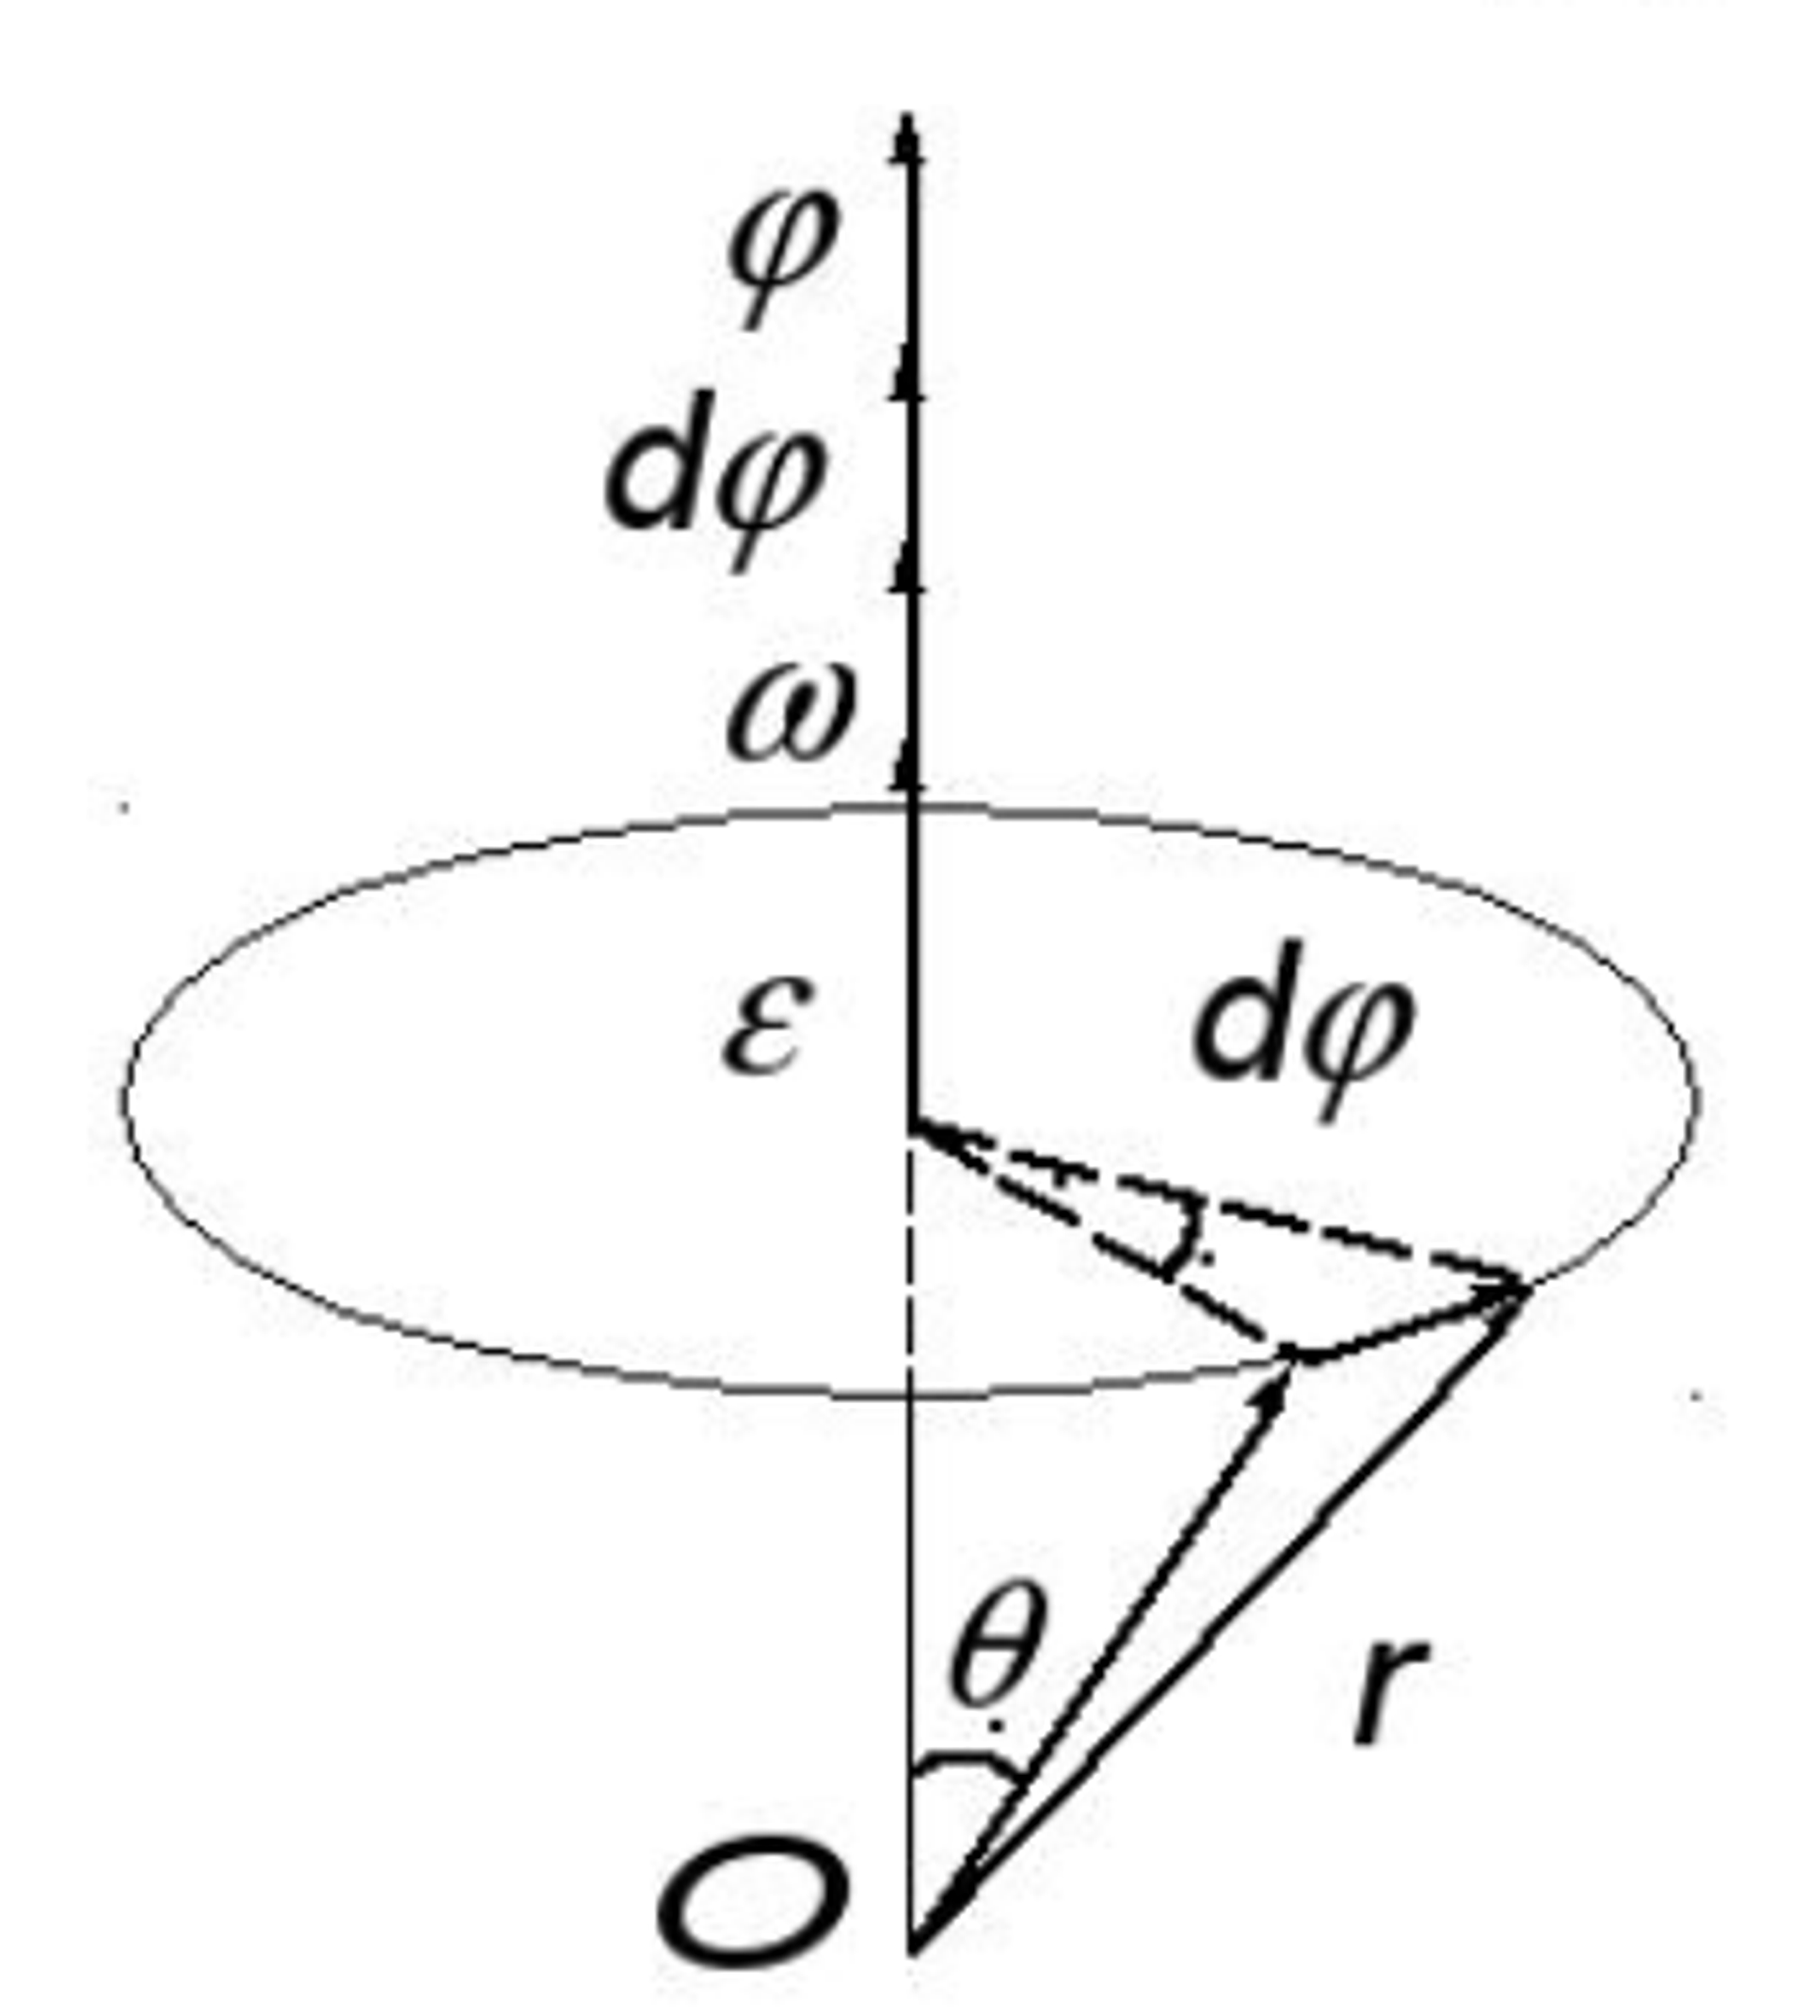
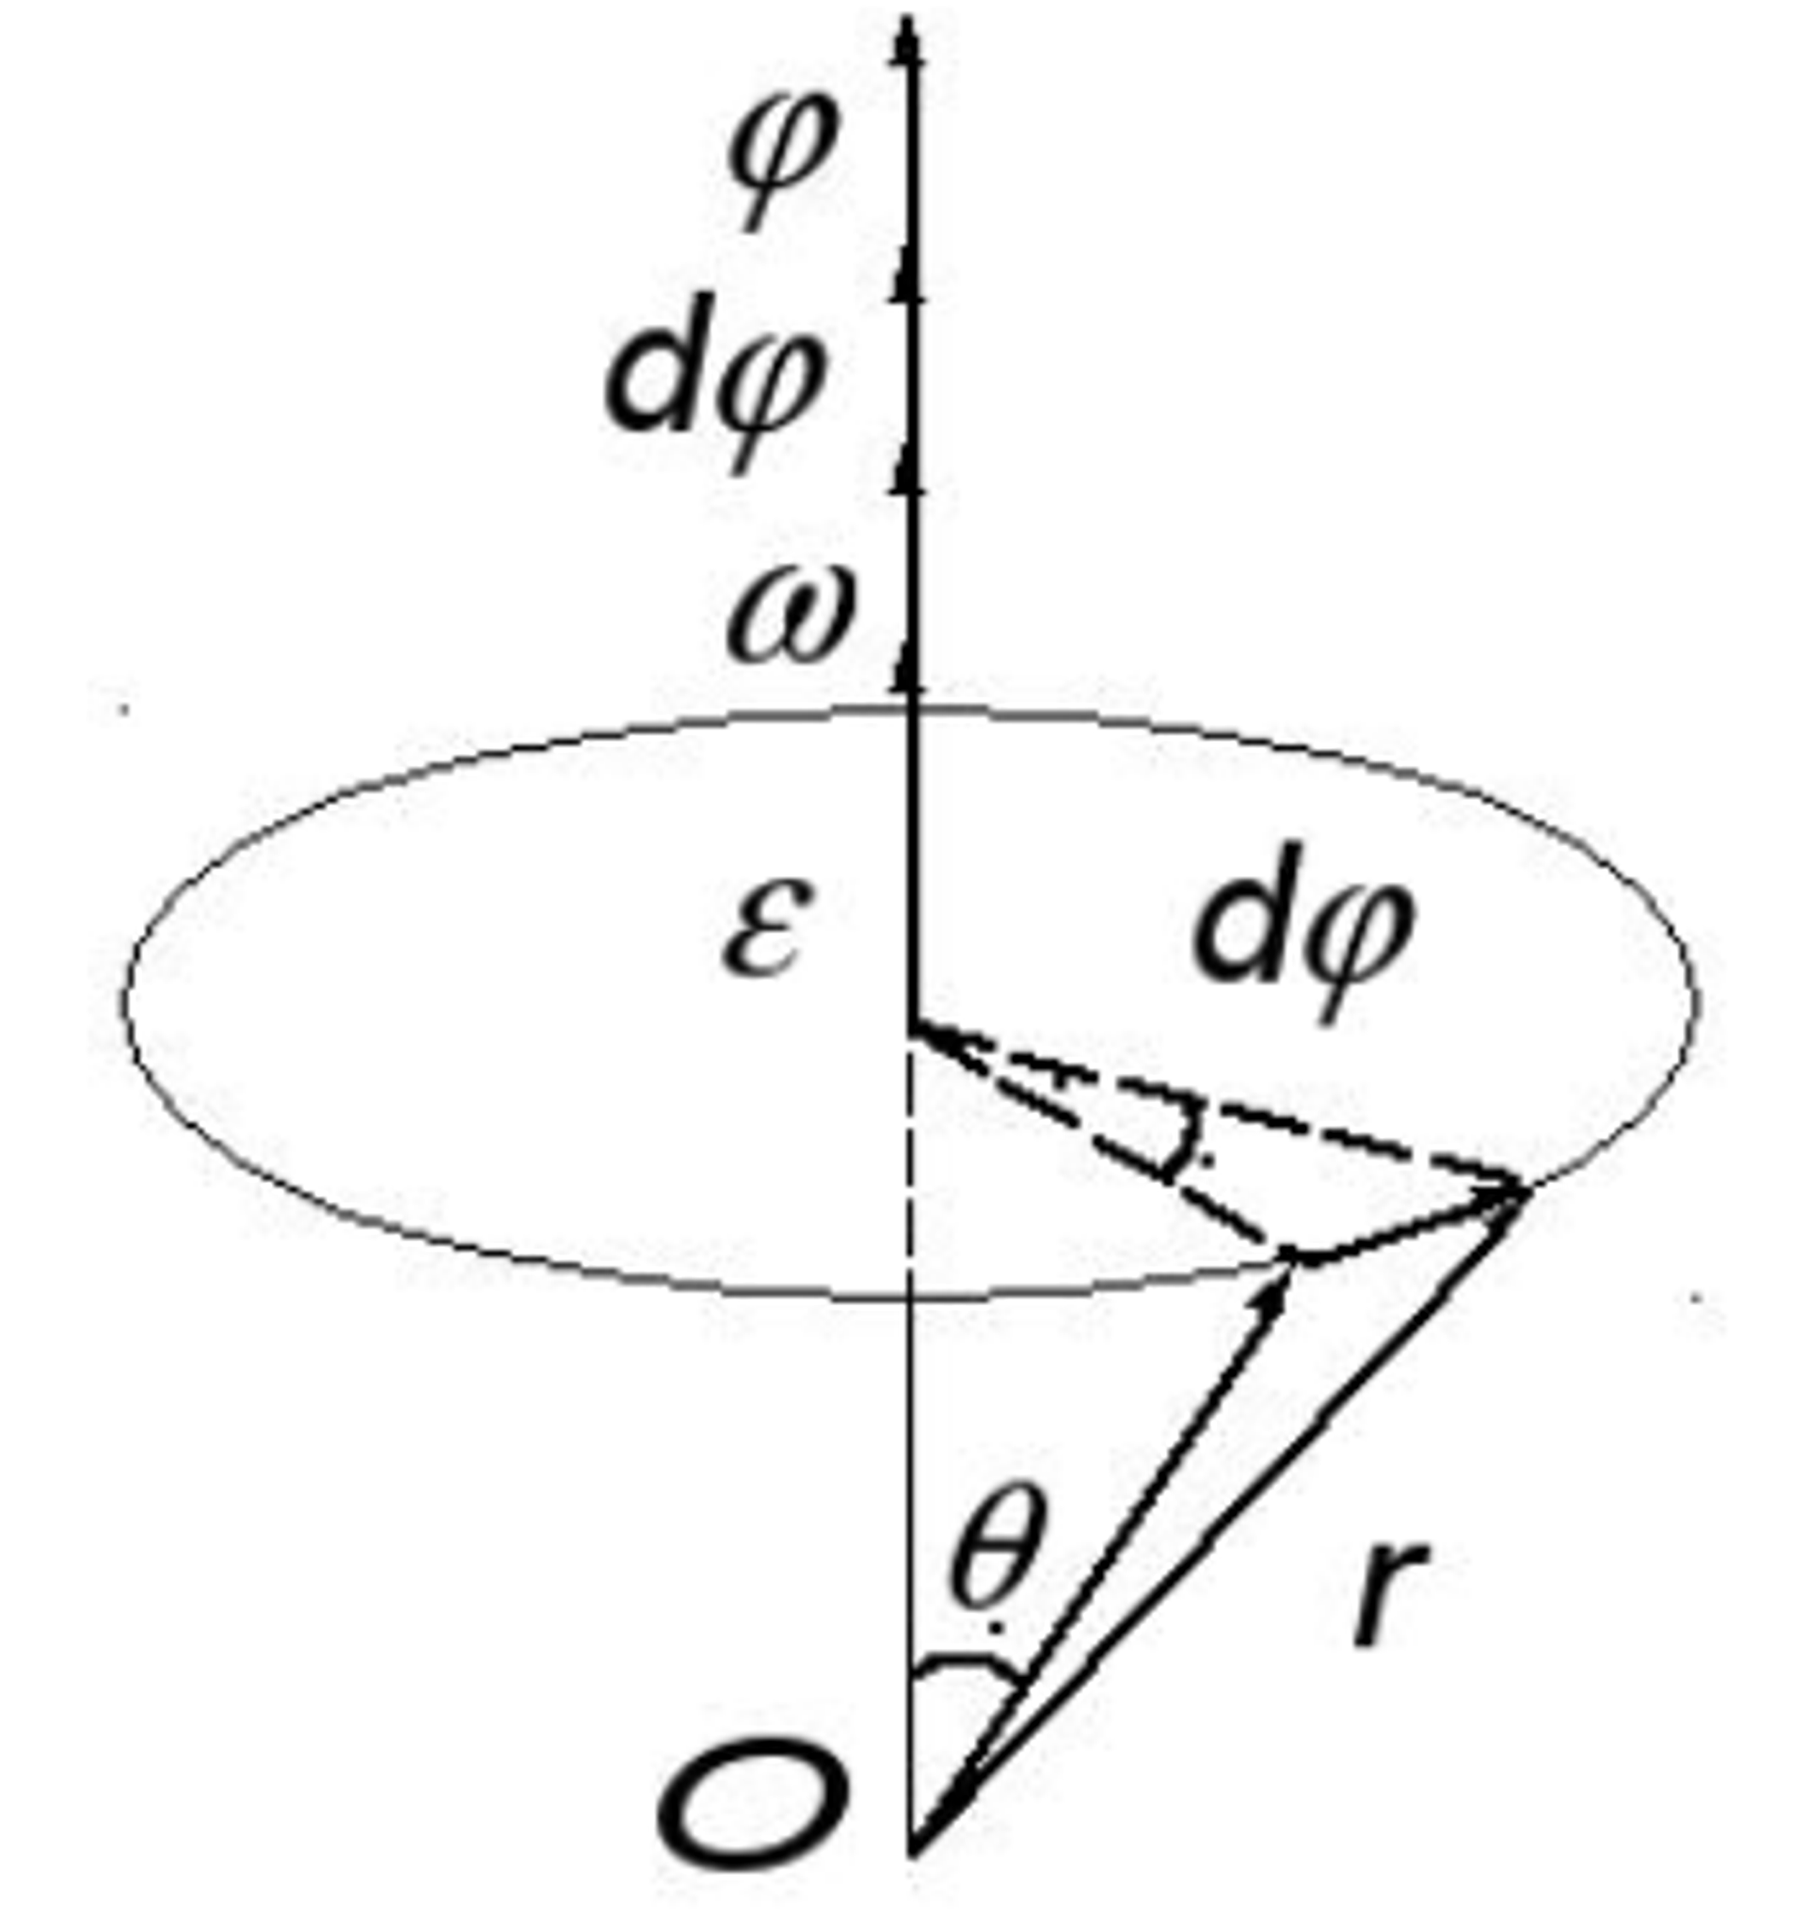
q8

Changed region(s): [[0.0625, 0.0, 0.9688, 0.9892], [0.3438, 0.8965, 0.4688, 0.9892], [0.75, 0.8037, 0.8125, 0.8656]]

diff --git a/03/Ph-exam/questions/q8.tex b/03/Ph-exam/questions/q8.tex
@@ -1,1 +1,99 @@
 \subsection{Момент импульса материальной точки и механической системы. Момент силы. Уравнение моментов. Закон сохранения момента импульса механической системы}
+
+\begin{definition}
+    Момент импульса материальной точки.
+\end{definition}
+
+\begin{wrapfigure}{l}{0.3\linewidth}
+    \centering
+    \includegraphics[width=\linewidth]{imgs/q8i1.png}
+\end{wrapfigure}
+
+Рассмотрим движение материальной точки массой $m$ по окружности радиуса $r$.
+
+\begin{definition}
+    Основное уравнение вращательного движения:
+
+    $$
+    I\cdot\varepsilon=M
+    $$
+\end{definition}
+
+Учитывая, что:
+$$
+\begin{aligned}
+    I = mr^2 \\
+    \varepsilon = \frac{a_\tau}{r} \\
+    a_\tau = \frac{dv}{dt}
+\end{aligned}
+$$
+
+Получаем:
+
+$$M=mr\frac{d\upsilon}{dt}$$
+
+Внесём $mr$ под знак дифференциала, т.к. не зависит от $t$:
+
+$$\frac{d(mr\upsilon)}{dt}=M$$
+
+\begin{definition}
+    Обозначим момент импульса материальной точки:
+    $$L=mr\upsilon$$
+\end{definition}
+
+\begin{definition}
+    Момент импульса — векторная величина, которая определяется как:
+    $$\vec L=[\vec r\cdot\vec p]$$
+\end{definition}
+
+, где $\vec p=m\vec\upsilon$ - импульс материальной точки,
+$\vec r$ - радиус-вектор
+
+Для движения по окружности, $\vec r\perp\vec p$, поэтому
+
+$$L=r\cdot p\ sin90^\circ=r\cdot p=mr\upsilon$$
+
+Момент импульса системы точек 
+
+$$L=\sum\limits_i [\vec{r_i}\cdot\vec{p_i}]$$
+
+Момент импульса твёрдого тела.
+
+$$\vec L=I\cdot\vec\omega$$
+
+Момент импульса абсолютно твёрдого тела относительно оси вращения равен произведению его момента инерции относительно той же оси 
+на угловую скорость.
+
+\begin{definition}
+    Момент силы относительно точки $[M_0, Н\cdot м]$ — векторная величина, 
+    которая определяется векторным произведением радиуса вектора $\vec R$ и силы $\vec F$.
+\end{definition}
+
+$$\vec M_0=[\vec R,\vec F]=\vec R\times\vec F$$
+
+Величина момента силы:
+
+$$|\vec M_0|=|\vec R||\vec F|sin\alpha$$
+
+\begin{definition}
+    Закон сохранения момента импульса
+    \begin{enumerate}
+        \item В замкнутой механической системе.
+        
+        В замкнутых, изолированных механических системах вектор момента импульса сохраняется, т.е. не меняется с течением времени.
+        $$\sum_i\vec L_i=const$$
+
+        \item В частично замкнутой механической системе.
+        $$\begin{cases}
+            \sum\limits_i\frac{d\vec{L_{ix}}}{dt} = \vec{0} \\
+            \sum\limits_i\frac{d\vec{L_{iy}}}{dt} = \vec{0} \\
+            \sum\limits_i\frac{d\vec{L_{iz}}}{dt} = \vec{0} 
+        \end{cases} \implies
+        \begin{aligned}
+            \sum\limits_i L_{ix} = const \\
+            \sum\limits_i L_{iy} \neq const \\
+            \sum\limits_i L_{iz} \neq const 
+        \end{aligned}$$
+    \end{enumerate}
+\end{definition}
+

diff --git a/03/Ph-exam/questions/q2.tex b/03/Ph-exam/questions/q2.tex
@@ -54,10 +54,10 @@ $$
     $$\vec\varepsilon=\frac{d\vec\omega}{dt}=\frac{d^2\vec\varphi}{dt^2}$$
 \end{definition}
 
-\begin{figure}[h]
+\begin{wrapfigure}{l}{0.2\linewidth}
     \centering
-    \includegraphics[width=0.3\linewidth]{imgs/q2i1.png}
-\end{figure}
+    \includegraphics[width=\linewidth]{imgs/q2i1.png}
+\end{wrapfigure}
 
 Угол поворота $\varphi$.
 

diff --git a/03/Ph-exam/preamble/packages.tex b/03/Ph-exam/preamble/packages.tex
@@ -55,6 +55,7 @@
 \usepackage{xparse}
 \usepackage{tabularx}
 \usepackage{diagbox}
+\usepackage{wrapfig}
 
 \usetikzlibrary{calc}
 \usetikzlibrary{backgrounds}
